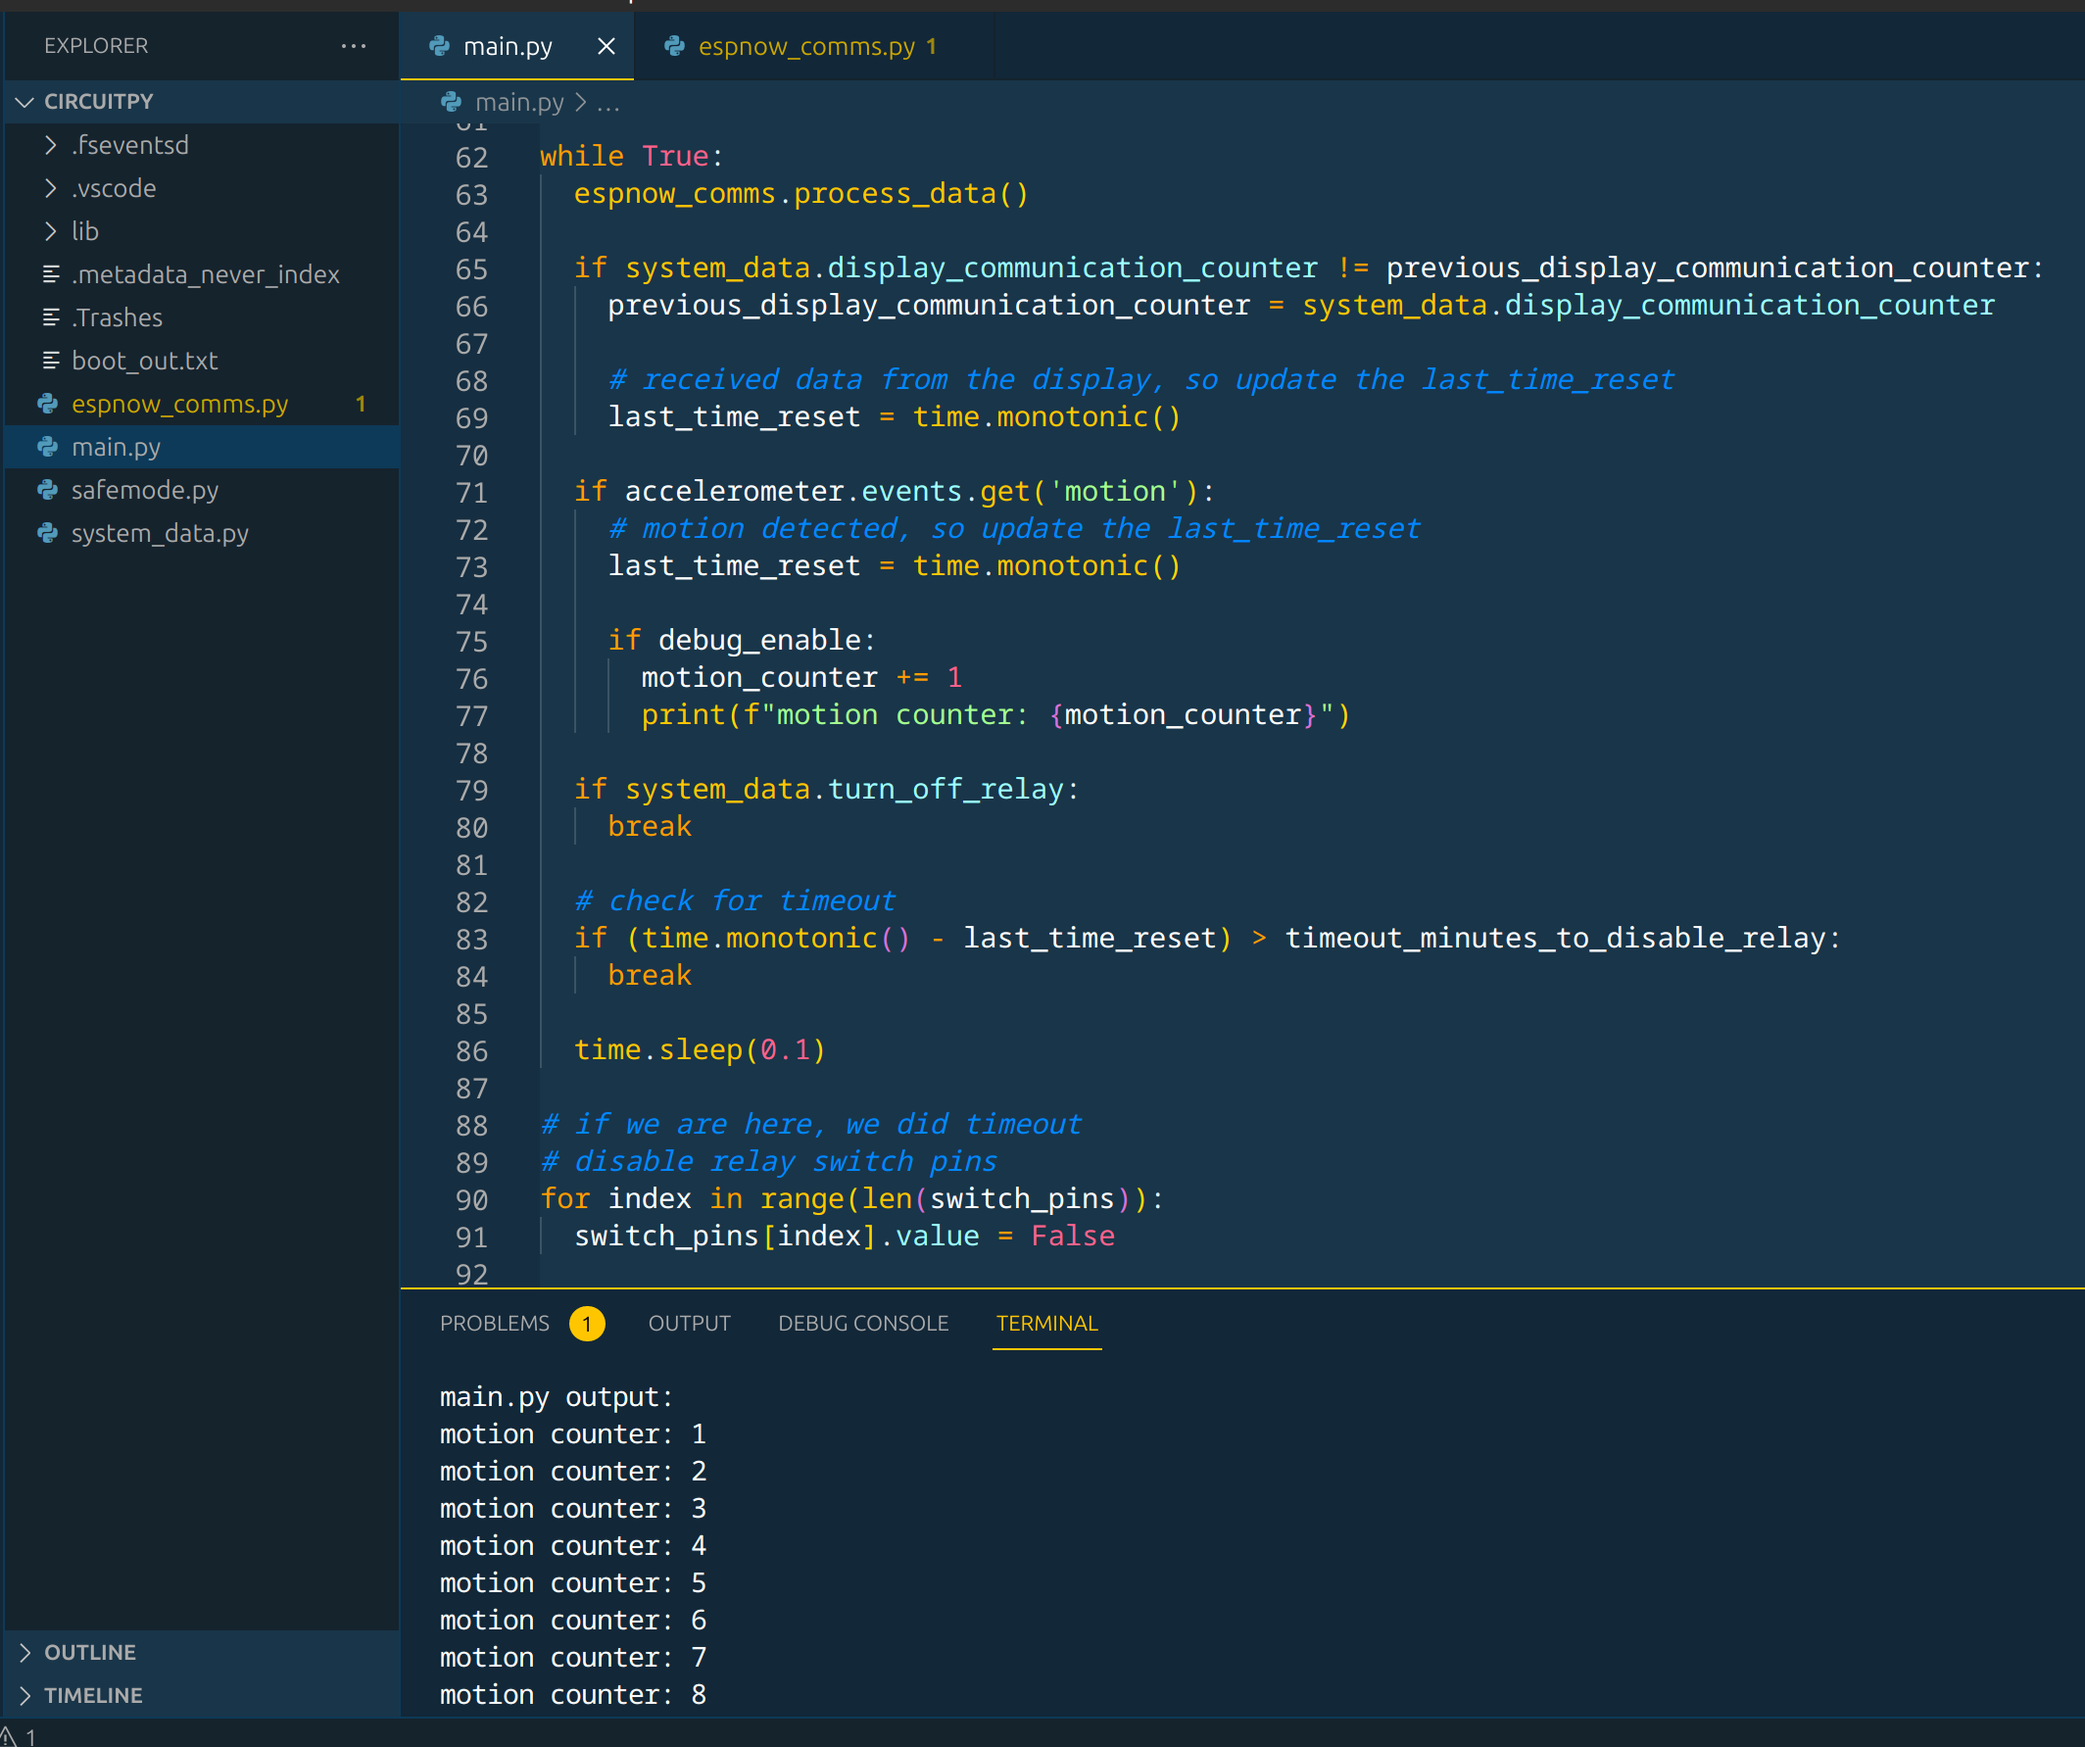
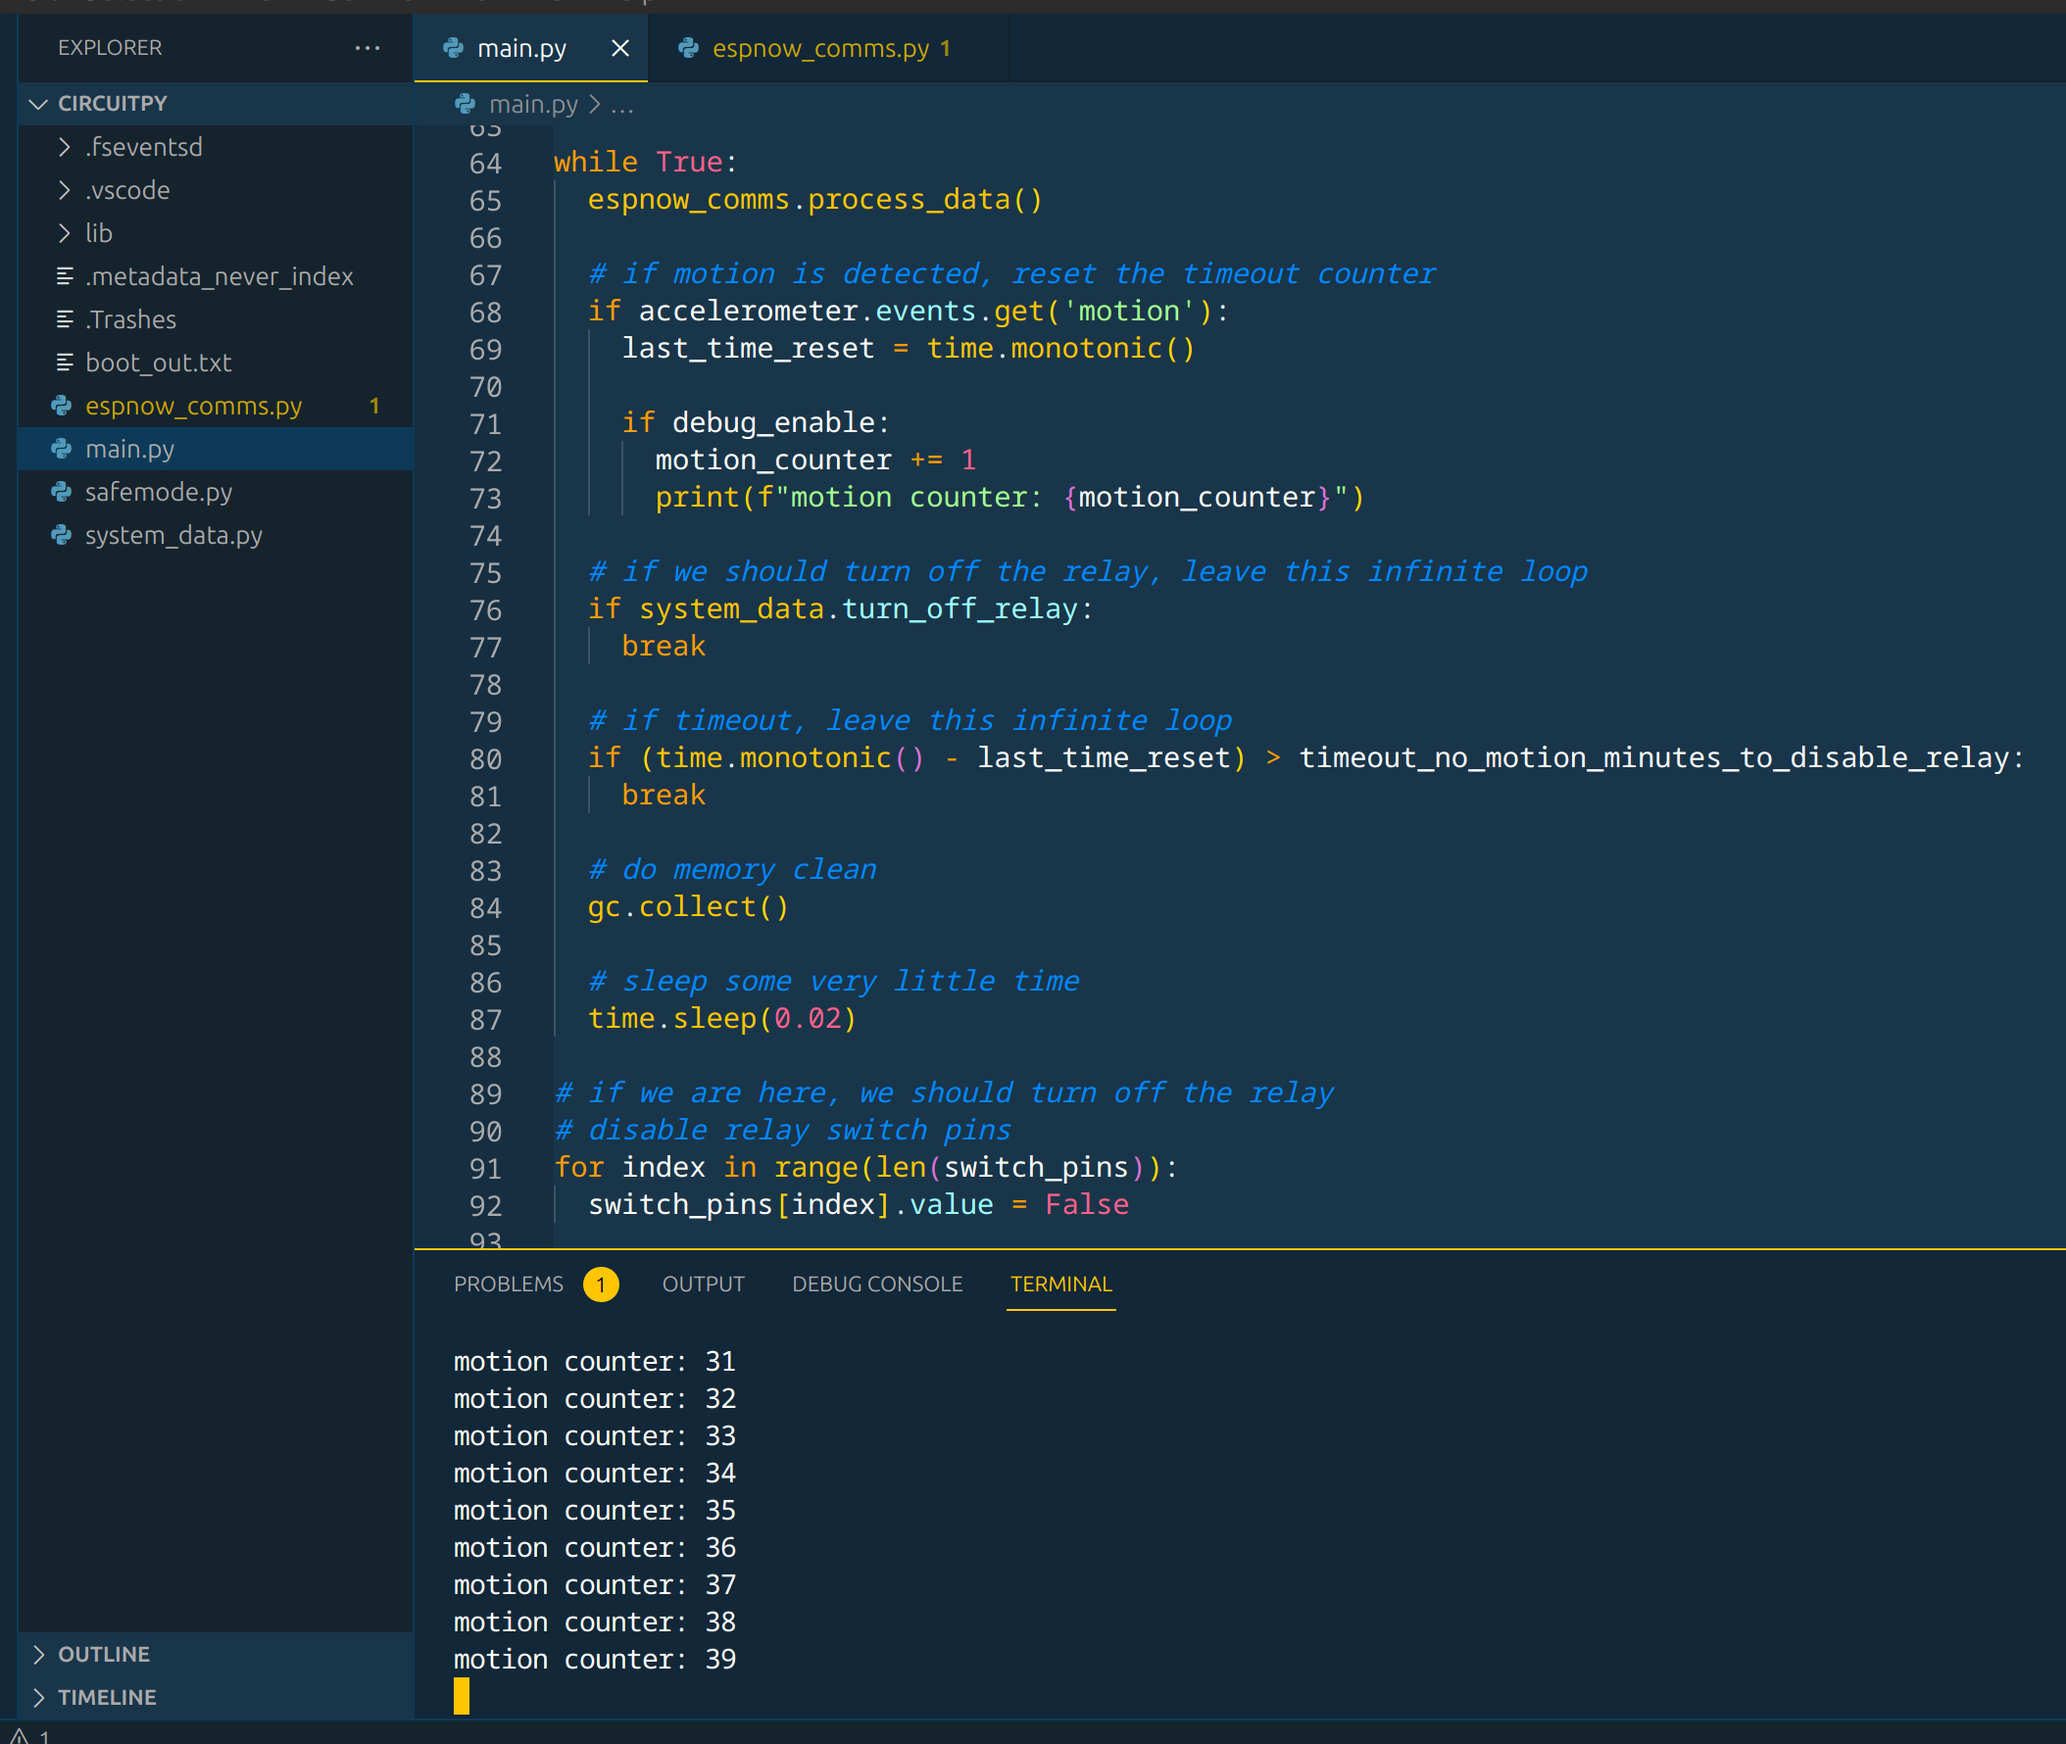
Updated the firmware screenshot

diff --git a/firmware/main.py b/firmware/main.py
@@ -32,7 +32,7 @@ seconds_to_wait_before_movement_detection = 20 # 20 seconds seems a good value
 
 my_mac_address = [0x68, 0xb6, 0xb3, 0x01, 0xf7, 0xf1]
 
-debug_enable = False
+debug_enable = True
 
 ################################################################
 
